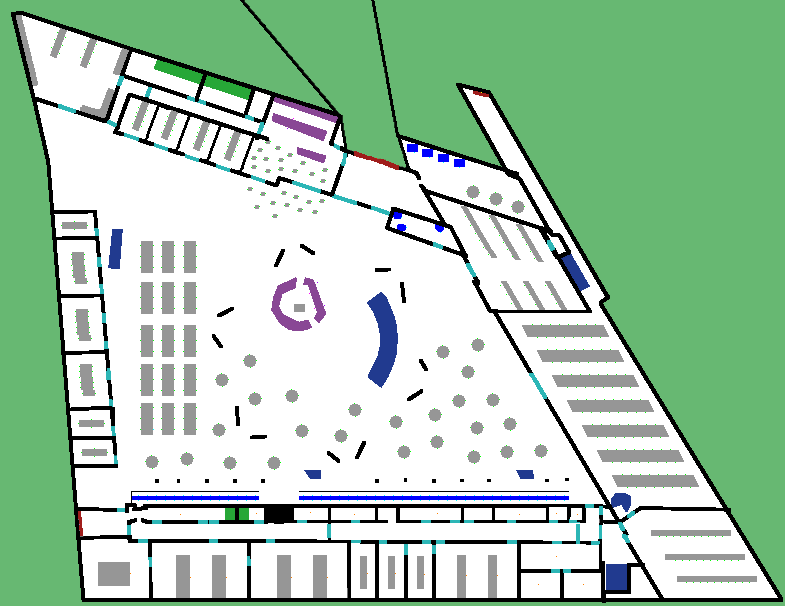
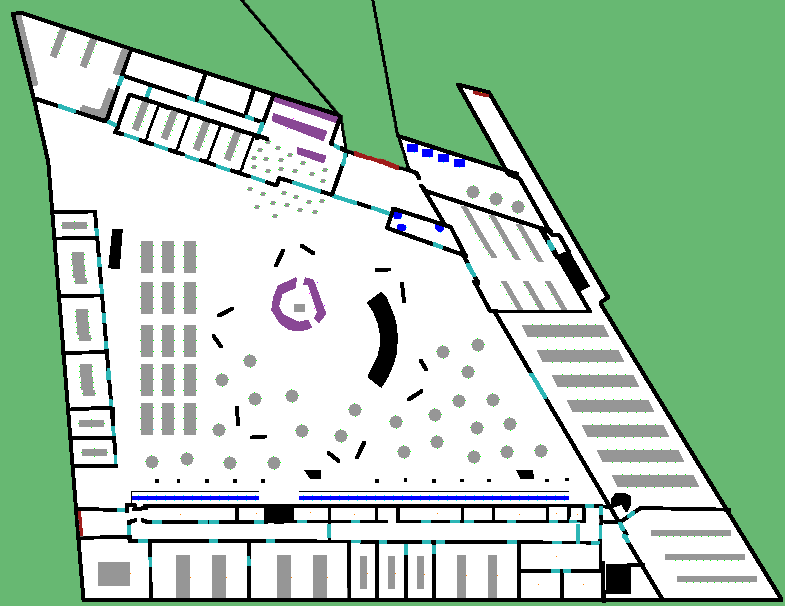
Updated pixel conversion code for reliability and route retrieval. Cleared off some terrible pixels in map as well.

diff --git a/Scripts/MappingModel.py b/Scripts/MappingModel.py
@@ -36,7 +36,7 @@ def get_border_dims(img_path=current_img_path):
     return im.shape[:-1]
 
 
-class MapModel(Model):
+class EvacuationModel(Model):
     """
     Instantiates Mesa grid and schedule objects.
     Converts pixels on given map image into Mesa grid entities.
@@ -66,7 +66,7 @@ class MapModel(Model):
         self.office_positions = []
         self.helpdesk_positions = []
         self.staff_agents = []
-        self.all_paths = {}     # dict of all paths from office spots to all exits.
+        self.all_paths = {}  # dict of all paths from office spots to all exits.
 
         self.destinations = {Destination.DESK: [],
                              Destination.SHELF: [],
@@ -89,61 +89,33 @@ class MapModel(Model):
             if np.all(im_np[:, :, 3].flatten(order='C') == 255):  # checks if transparencies present in image
                 im_np = np.delete(im_np, 3, 2)
         except:
-            print('MapModel: (minor issue) Transparency check failed, proceeding.')
+            print('EvacuationModel: (minor issue) Transparency check failed, proceeding.')
 
         # convert 2d rgb coords to 1d (even though ndarray is 3d, incl. RGB dimension)
         self.rgbcoords_1d = im_np.reshape((im_np.shape[0] * im_np.shape[1], im_np.shape[2]))
         # retrieve colour palettes in map
-        self.c_unique, c_occurrence = np.unique(self.rgbcoords_1d, return_counts=True, axis=0)
-
-        self.colour_to_grid_object = pd.read_csv(color_path, sep='\t',
-                                                 index_col=2)
-        self.colours = np.array([np.array(literal_eval(self.colour_to_grid_object.loc[colour, 'RGB'])) for colour in
-                                 self.colour_to_grid_object.index])
-        index_map = list(zip(self.colour_to_grid_object.index, self.colours))
-        self.indices = index_map
+        self.colours_all, colours_all_per_occurrence = np.unique(self.rgbcoords_1d, return_counts=True, axis=0)
+        self.colour_to_obj_map = pd.read_csv(color_path, sep='\t',
+                                             index_col=2)
+        self.colours_defined = np.array([np.array(literal_eval(self.colour_to_obj_map.loc[colour, 'RGB'])) for colour in
+                                         self.colour_to_obj_map.index])
+        index_map = list(zip(self.colour_to_obj_map.index, self.colours_defined))  # map object to RGB colours
+        # self.indices = index_map
 
         # check for membership between image and defined colour set, sanity check
         # below: finds the indices where RGB in one array is found in another, returns 2 arrays of indices
-        membership_check = np.where((self.colours == self.c_unique[:, None]).all(-1))
-        if len(membership_check[1]) != len(self.colour_to_grid_object.index):
-            excluded = list(set(list(range(len(self.colour_to_grid_object.index)))) - set(membership_check[1]))
-            excluded_name = [self.colour_to_grid_object.iloc[color,1] for color in excluded]
+        membership_check = np.where((self.colours_defined == self.colours_all[:, None]).all(-1))
+        if len(membership_check[1]) != len(self.colour_to_obj_map.index):
+            excluded = list(set(list(range(len(self.colour_to_obj_map.index)))) - set(membership_check[1]))
+            excluded_name = [self.colour_to_obj_map.iloc[color, 1] for color in excluded]
             raise ValueError(f"Membership check failed: defined colour set item index/indices {excluded_name} "
                              f"not in image")
 
         # detect outlier colours from set exclusion
         # below: finds non-matching colours based on defined set
-        self.outliers = np.where((self.c_unique[:, None] != self.colours).any(-1).all(1))[0]
+        self.outliers = np.where((self.colours_all[:, None] != self.colours_defined).any(-1).all(1))[0]
 
-        # self.correction_map = []    # for diagnostic
-        self.limbo_map = []
-        # find difference vector of outlier colours to main colour.  Minimal difference = closest colour
-        # easy alg: subtract outlier colour from defined set array, sum RGB values, find minimum, match index
-        for idx in self.outliers:
-            in_limbo = False
-            c = self.c_unique[idx, :]
-            c_delta = np.sum(np.abs(np.array(self.colours) - c), axis=1)
-            # additional check: if c_delta higher than condition, default to black
-            if np.amin(c_delta) > 70:
-                parent = (0, 0, 0)
-                in_limbo = True
-            else:
-                parent = self.colours[np.argmin(c_delta, axis=0)]
-
-            # self.correction_map.append((c, parent, np.min(c_delta))) # diagnostic
-
-            # find indices of all pixels with matching colour
-            outlier_pixels = self.find_colour_coords(c)
-            if in_limbo:
-                self.limbo_map.append(
-                    [(c, list(zip(idx % self.gridsize[1], idx // self.gridsize[1]))) for idx in outlier_pixels])
-            # replace outlier colour to main colour
-            for idx in outlier_pixels:
-                self.rgbcoords_1d[idx, :] = parent
-
-        if len(np.unique(self.rgbcoords_1d, axis=0)) != len(self.colours):
-            raise ValueError('RGB correction issue, colours in corrected array not the same as defined set.')
+        self.process_colour_outliers()
 
         # ToyModel-like grid entity populating and visitor spawning
         self.fill_grid(index_map)
@@ -156,13 +128,43 @@ class MapModel(Model):
                                       IA.HelpDeskInteractiveForHelper,
                                       IA.ShelfInteractive]
         self.set_up_exits()
-        # self.batchcompute_all_exits(overwrite=True, test=False) # batchcompute must come after exit setup
-        # self.spawn_visitors(n=self.n_visitors)
-        # self.spawn_staff_and_get_exits_paths(n=self.n_officestaff)
+        self.batchcompute_all_exits(overwrite=False, test=False)  # batchcompute must come after exit setup
+        self.spawn_visitors(n=self.n_visitors)
+        self.spawn_staff_and_get_exits_paths(n=self.n_officestaff)
 
-        # self.batchcompute_closest_exit()
 
         self.datacollector = DataCollector(model_reporters={"safe_agents": self.get_nr_of_safe_agents})
+
+    def process_colour_outliers(self):
+        """
+        Processes colour outliers to their closest relative.
+        Does the following:
+        1. delta1: Gets the difference between outlier colour and the defined colour set
+        2. delta2: Finds the difference between R/G/B of highest diff and of lowest diff.
+            Tells if a shade is darker/lighter.
+        3. if: checks if there's no clear 'closer parent' (especially greys), then look for the smallest sum of delta1 (replacing default delta2)
+        4. parent: encodes change of colour
+        """
+        # self.limbo_check = []
+        for colour in self.outliers:
+            ref_set = self.colours_defined  # for refresh per step, since this is mutable
+            current = self.colours_all[colour, :]
+            delta1 = ref_set - current
+            check1 = np.sum(np.abs(delta1), axis=1)
+            delta2 = np.amax(delta1, axis=1) - np.amin(delta1, axis=1)
+            if np.sum(delta2 < np.amin(delta2) + 10) > 1:
+                select = delta2 < np.amin(delta2 + 10)
+                delta1 = delta1[select, :]
+                ref_set = self.colours_defined[select, :]
+                delta2 = np.sum(np.abs(delta1), axis=1)
+            parent = ref_set[np.argmin(np.abs(delta2))]
+            locations = self.find_colour_coords(current)
+            for loc in locations:
+                self.rgbcoords_1d[loc,:] = parent
+            # self.limbo_check.append((current, parent))
+
+        if len(np.unique(self.rgbcoords_1d, axis=0)) != len(self.colours_defined):
+            raise ValueError('RGB correction issue, colours in corrected array not the same as defined set.')
 
     def is_done(self):
         return len(self.safe_agents) >= self.n_staff + self.n_visitors
@@ -236,12 +238,12 @@ class MapModel(Model):
             x = idxs % self.gridsize[1]
             coords = zip([int(ix) for ix in x], [int(iy) for iy in y])
             # save spawnable items into list
-            if bool(int(self.colour_to_grid_object.loc[obj, 'Spawnable'])):
+            if bool(int(self.colour_to_obj_map.loc[obj, 'Spawnable'])):
                 self.spawnable_positions.extend(coords)
 
             # save destinations to dict as defined in init, used for pathfinding
             try:
-                entity_type = self.colour_to_grid_object.loc[obj, 'Entity_category']
+                entity_type = self.colour_to_obj_map.loc[obj, 'Entity_category']
                 user_destination = None
                 sub_destination = None
                 if 'exit' in entity_type.lower():
@@ -254,7 +256,7 @@ class MapModel(Model):
                         sub_destination = Destination.EXITC
                     elif entity_type == "Exit":
                         # hacky way of catching generic Exit tiles, while still accounting for other exit classes
-                        # print("MapModel: generic Exit object detected, these tiles won't be considered in pathfinding")
+                        # print("EvacuationModel: generic Exit object detected, these tiles won't be considered in pathfinding")
                         user_destination = None
                     else:
                         raise ValueError("Exit Does not exist")
@@ -290,22 +292,10 @@ class MapModel(Model):
                     # below: use Entity_category string from object_colours.tsv to match
                     # with the classes from inanimate agents (hence alias IA)
                     # parentheses after: initiate the matched inanimate class with its associated args
-                    if self.colour_to_grid_object.loc[obj, 'Entity_category'] not in staff_types:
-                        object = getattr(IA, self.colour_to_grid_object.loc[obj, 'Entity_category'])(self.next_id(),
-                                                                                                     self)
+                    if self.colour_to_obj_map.loc[obj, 'Entity_category'] not in staff_types:
+                        object = getattr(IA, self.colour_to_obj_map.loc[obj, 'Entity_category'])(self.next_id(),
+                                                                                                 self)
                         self.grid.place_agent(object, pos=(x, y))
-                    # else:  # entities from animate class go here (helpdesk staff and office staff)
-                    #     # only insert helpdesk staff for now
-                    #     if self.colour_to_grid_object.loc[obj, 'Entity_category'] == 'Office':
-                    #         self.office_positions.append((x, y))
-                    #     elif self.colour_to_grid_object.loc[obj, 'Entity_category'] == 'HelpDeskInteractiveForHelper':
-                    #         self.helpdesk_positions.append((x,y))
-                    #         agent_class = Staff(self.next_id(), self, female_ratio=self.female_ratio,
-                    #                             adult_ratio=self.adult_ratio)
-                    #         self.grid.place_agent(agent=agent_class, pos=(x, y))
-                    #         self.schedule.add(agent_class)
-                    #         self.staff_agents.append(agent_class)
-                    #         self.n_staff += 1
 
 
                 except TypeError:
@@ -338,35 +328,36 @@ class MapModel(Model):
         :param n: number of staff members
         :return: None
         """
-        positions = random.sample(self.office_positions, k=n)
-        positions.extend(self.helpdesk_positions) # addition of fixed/constant helpdesk locations
+        # introduce sanity check
+        self.encoded_starts = set([a[0] for a in self.all_paths.keys()])
+        outliers = list(self.encoded_starts - (set(self.office_positions + self.helpdesk_positions)))
+        if len(outliers) != 0:
+            print(f"Position(s) detected: {outliers}. Will be ignored.")
+        positions = random.sample(self.encoded_starts, k=n-1)
+        empties = list(set(self.encoded_starts) - set(positions))
+        positions.extend(self.helpdesk_positions)  # addition of fixed/constant helpdesk locations
         valid_exits = self.destinations[Destination.EXIT]
 
         for pos in positions:
             staffpax = Staff(self.next_id(), self, female_ratio=self.female_ratio,
-                              adult_ratio=self.adult_ratio)
+                             adult_ratio=self.adult_ratio)
             self.grid.place_agent(agent=staffpax, pos=pos)
             self.schedule.add(staffpax)
-            self.staff_agents.append(staffpax)
-            routes = [self.all_paths[(pos,dest)] for dest in valid_exits]
-            lengths = [len(route) for route in routes]
-            staffpax.emergency_knowledge.closest_exit = routes[lengths.index(min(lengths))][-1]
+            self.staff_agents.append(staffpax)  # all staff agents in a central list
+            paths_not_found = True
+            while paths_not_found:
+                try:
+                    routes = [self.all_paths[(pos, dest)] for dest in valid_exits]
+                    lengths = [len(route) for route in routes]
+                    staffpax.emergency_knowledge.closest_exit = routes[lengths.index(min(lengths))][-1]
+                    break
+                except KeyError:  # catch times with weird values for spaces
+                    print(f"\tMapModel: {pos} not found in all_paths, recalculating")
+                    pos = random.sample(empties, k=1)
+                    empties.remove(pos)
+
             self.n_staff += 1
-        print(f"MapModel: all {n} Staff entities' destinations encoded.")
-
-
-    def batchcompute_closest_exit(self):
-        """
-        conducts the agent_class.emergency_knowledge.compute_closest_exit() for agent classes in one printed wrapper
-        :return: None
-        """
-        print(f"\t>Pre-calculating exit paths for staff, total count: {self.n_staff}.\n"
-              f"\t>Estimated time per staff: ~1min. Make yourself comfortable")
-        for n, staff in enumerate(self.staff_agents):
-            staff.emergency_knowledge.compute_closest_exit()
-            print(f'\t\t>>progress: {n + 1}/{self.n_staff}')
-        print("\t\t>>All staff agents' exit paths pre-calculated.")
-
+        print(f"EvacuationModel: all {len(positions)} Staff entities' destinations encoded.")
 
     def batchcompute_all_exits(self, overwrite=False, save_name='office_to_exit_paths', test=False):
         """
@@ -377,16 +368,16 @@ class MapModel(Model):
         """
         # check if file exists, if not then run, if overwrite=True, then go
         construct = False
-        if test:    # test overrides all, but doesn't save
+        if test:  # test overrides all, but doesn't save
             construct = True
         else:
             if os.path.isfile(f'{save_name}.pickle'):
                 print("> Paths file available.")
                 if overwrite:
-                    print('> Overwriting Paths file, constructing...' )
+                    print('> Overwriting Paths file, constructing...')
                     construct = True
                 else:
-                    with open(f"{save_name}.pickle",'rb') as read:
+                    with open(f"{save_name}.pickle", 'rb') as read:
                         self.all_paths = pickle.load(read)
                     print(">> Paths file loaded!")
             else:
@@ -402,7 +393,7 @@ class MapModel(Model):
                   "\n> Average time per epoch: <1 min. Make yourself comfortable.")
             for epoch, pos in enumerate(all_sources):
                 start_t = time.time()
-                print(f'\t>> Epoch: {epoch+1}/{len(all_sources)}')
+                print(f'\t>> Epoch: {epoch + 1}/{len(all_sources)}')
                 # iterate through exits
                 for idx, exit in enumerate(all_exits):
                     paths = [a_star_search(self.grid, pos, exit)]
@@ -410,7 +401,7 @@ class MapModel(Model):
                     shortest_path = paths[lengths.index(min(lengths))]
                     self.all_paths[(pos, exit)] = shortest_path
                 self.timer.append(round(time.time() - start_t, 1))
-                if test:    # for diagnostic
+                if test:  # for diagnostic
                     if epoch + 1 == 2:
                         break
 
@@ -418,6 +409,6 @@ class MapModel(Model):
             with open(f'{save_name}.pickle', 'wb') as handle:
                 pickle.dump(self.all_paths, handle, protocol=pickle.HIGHEST_PROTOCOL)
 
-# test = MapModel()
+# test = EvacuationModel()
 # if __name__ ==  "__main__ ":
-#     test_item = MapModel()
+#     test_item = EvacuationModel()

diff --git a/Notebooks/Sanity2.py b/Notebooks/Sanity2.py
@@ -11,7 +11,7 @@ sys.path.append('./Scripts')
 
 exp = Experiment()
 
-exp.run(model=MapModel, map_img_path='Images/Library_NewPlan2.png', visualize=False, n_replications=1, valid_exits=[ExitType.ABC, ExitType.AB])
+exp.run(model=EvacuationModel, map_img_path='Images/Library_NewPlan2.png', visualize=False, n_replications=1, valid_exits=[ExitType.ABC, ExitType.AB])
 # exp.run(model=MapModel, map_img_path='Images/Library_ToyPlan2_map.png', visualize=True, n_replications=1)
 # exp.run(model=ToyModel, visualize=False, n_replications=1)
 
